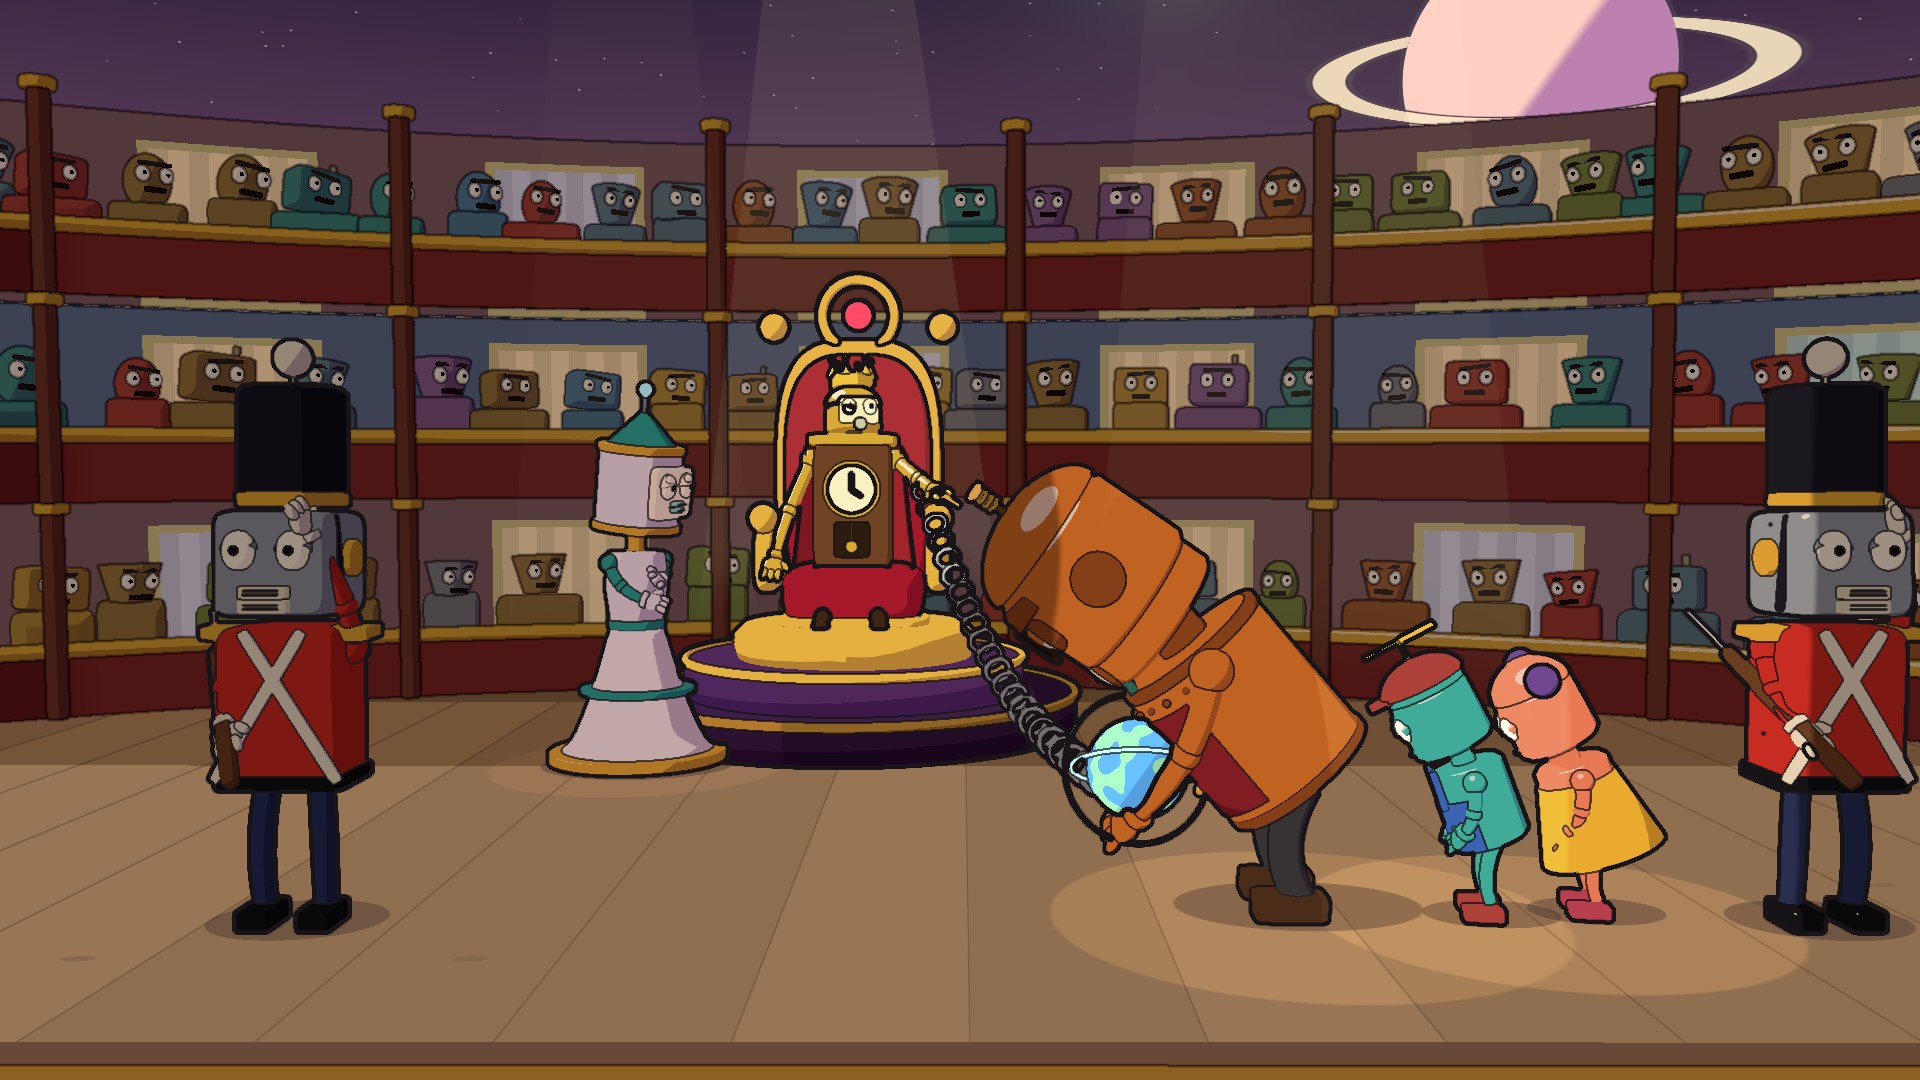
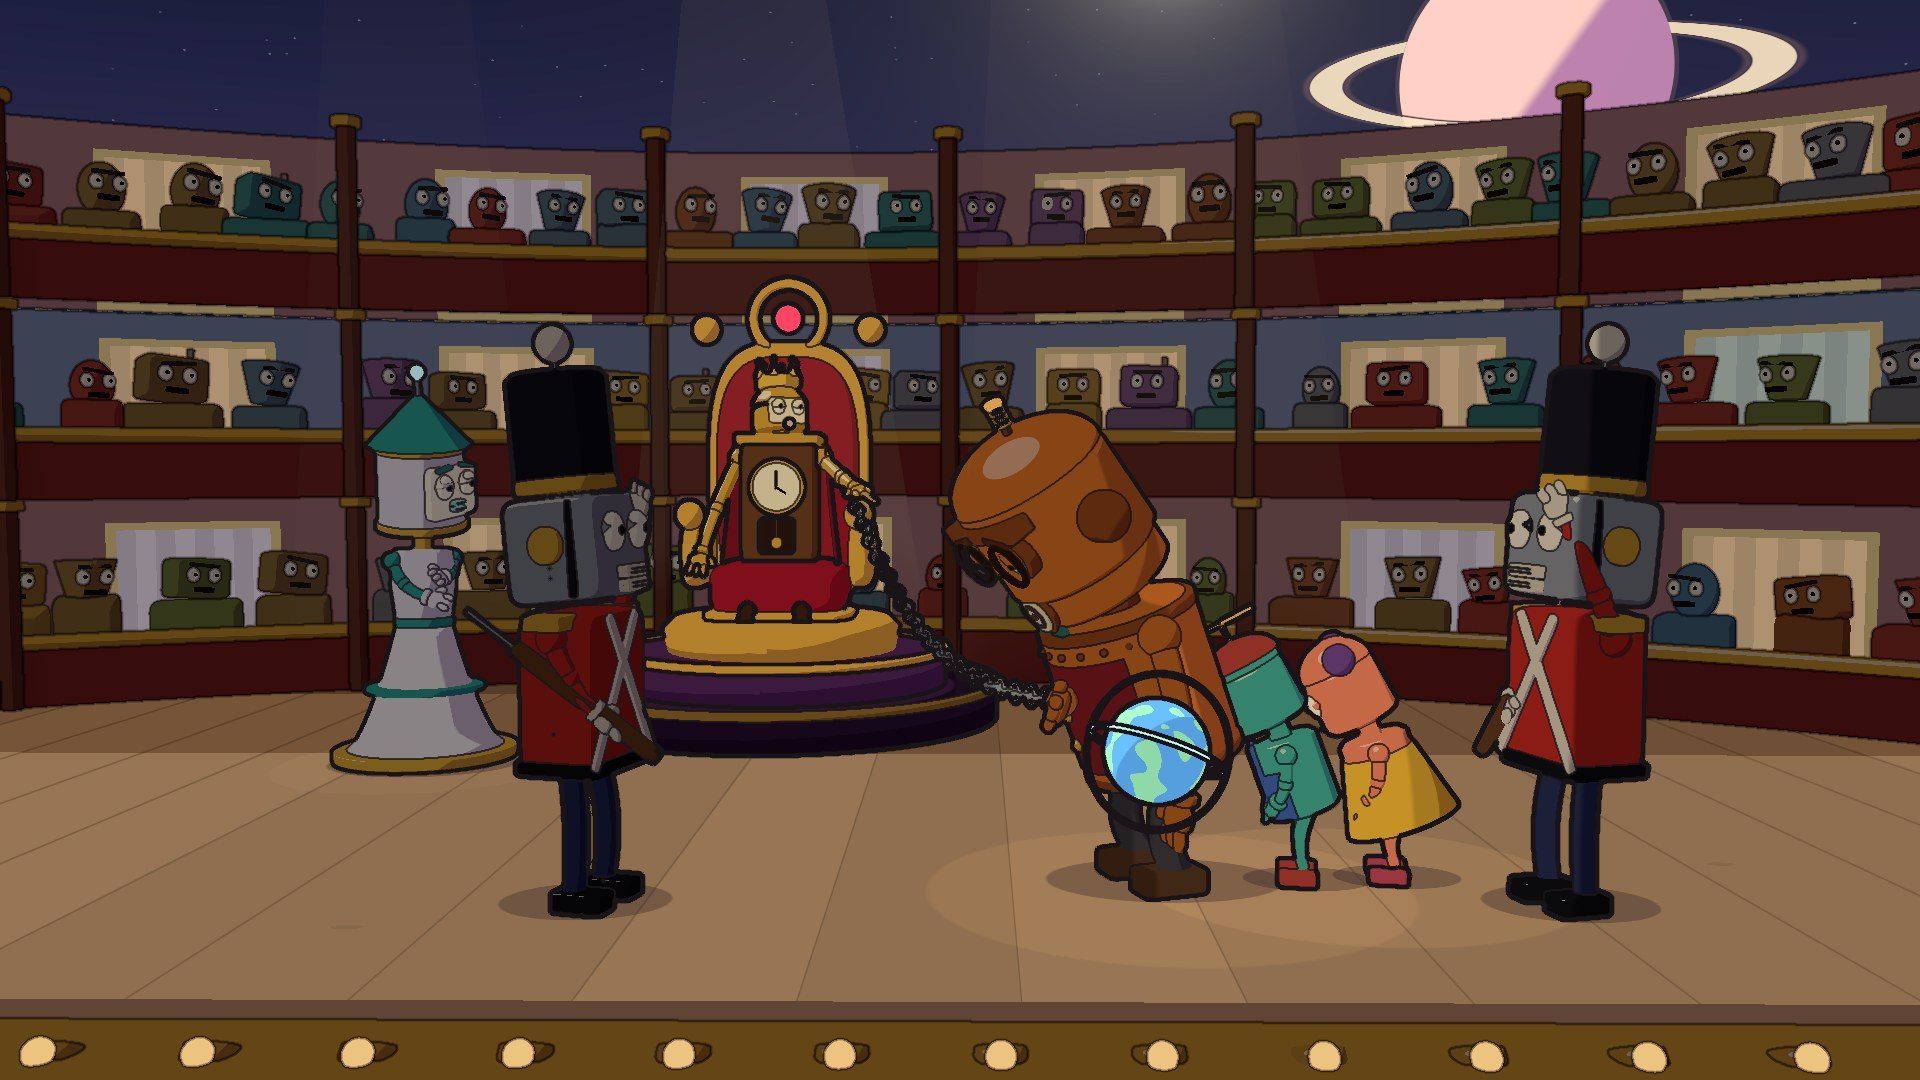
Chain clip round 2: wrist insert, real chain links, soldier stand-off, bow
- Wrist insert follows the real wrist; the chain yanks the left hand clear of
  the globe so the chain visibly ends at the cuff with his face in frame.
- Links turned so each plane contains the path and stretched into ovals
  (reads as a chain, not a coil) - clip-local until props.ts adopts it.
- Soldiers halt facing Barnaby in profile, step in and aim on "wars",
  waver on "But never", turn three-quarters to him and salute on "reign".
  Red floor wash removed; key light kept neutral (Aria stays white).
- Bow: waist bend with knee dip and hips back, a nod, chained hand across
  the chest, globe lowered to his side; motion and camera settle by 70.6 s
  and hold through the fade.
- Brows/lids: Barnaby wistful, startled, alarmed then resolved, humble;
  Aria worried; king smug, alarmed, content.

diff --git a/visuals/one-more-dawn/src/lib/clips/chain.ts b/visuals/one-more-dawn/src/lib/clips/chain.ts
@@ -144,8 +144,9 @@ const BL: VKey[] = [
   [T.hands + 0.6, [-0.19, 0.4, 0.58]],
   [60.95, [-0.36, 0.3, 0.66]], // show it to the children
   [T.chain - 0.02, [-0.36, 0.3, 0.66]],
-  [T.chain + 0.1, [-0.66, 0.55, 0.4], easeOut], // yanked by the chain
-  [T.chain + 0.55, [-0.32, 0.38, 0.58]],
+  [T.chain + 0.1, [-0.8, 0.74, 0.4], easeOut], // yanked out by the chain
+  [T.chain + 0.9, [-0.74, 0.68, 0.44]], // held taut, straining
+  [63.95, [-0.4, 0.42, 0.56]],
   [64.1, [-0.18, 0.42, 0.5]], // protective, at the chest
   [T.wars - 0.2, [-0.18, 0.42, 0.5]],
   [T.wars + 0.05, [-0.22, 0.26, 0.46]], // anticipation
@@ -166,14 +167,16 @@ const BR: VKey[] = [
   [END, [0.6, 0.0, 0.22]],
 ];
 // Globe position in Barnaby's torso space while it rests at his side.
-const GLOBE_SIDE: V3 = [0.64, 0.2, 0.28];
+const GLOBE_SIDE: V3 = [0.66, 0.3, 0.3];
+// Globe held to his chest in the right hand while the chain holds the left.
+const GLOBE_CHEST: V3 = [0.02, 0.6, 0.74];
 // Right hand differs while showing the globe and on the jolt.
 const BR_SHOW: VKey[] = [
   [60.5, [0.19, 0.4, 0.58]],
   [60.95, [0.04, 0.3, 0.7]],
   [T.chain - 0.02, [0.04, 0.3, 0.7]],
-  [T.chain + 0.1, [-0.16, 0.44, 0.6], easeOut],
-  [T.chain + 0.55, [0.06, 0.38, 0.6]],
+  [T.chain + 0.1, [0.0, 0.36, 0.66], easeOut],
+  [T.chain + 0.9, [0.04, 0.36, 0.64]],
   [64.1, [0.18, 0.42, 0.5]],
 ];
 
@@ -194,7 +197,7 @@ function barnaby(t: number, rig: Rig, out: Pose): void {
     [T.begged + 0.3, -0.3],
     [66.4, -0.05],
     [T.brk, -0.05],
-    [T.reign - 0.15, -1.5],
+    [T.reign - 0.15, -1.22], // three-quarter profile so the bow and face read
   ]);
   // Old-timer stoop, breathing.
   p.lean = 0.12 + Math.sin(t * 1.3) * 0.015;
@@ -224,8 +227,11 @@ function barnaby(t: number, rig: Rig, out: Pose): void {
   // The bow on "reign": a waist bend with a knee dip, a nod of the head,
   // settled by 70.6 s and held still through the fade.
   const bow = ekeys(t, [[T.reign - 0.05, 0], [T.reign + 0.6, 1.06, easeOut], [T.reign + 1.05, 1]]);
-  p.lean += bow * 0.36;
-  p.lift -= bow * 0.075;
+  p.lean += bow * 0.22;
+  p.lift -= bow * 0.1;
+  // Hips go back as the chest goes forward, so the bend reads at the waist.
+  p.x -= Math.sin(p.yaw) * bow * 0.08;
+  p.z -= Math.cos(p.yaw) * bow * 0.08;
   p.squash -= bow * 0.03;
   p.bendL = 0.5;
   const calm = ramp(t, T.reign + 0.6, T.reign + 1.1);
@@ -258,8 +264,8 @@ function barnaby(t: number, rig: Rig, out: Pose): void {
     [T.never + 0.35, 0.12],
     [T.brk + 0.4, 0.04],
     [T.reign + 0.05, 0.02],
-    [T.reign + 0.5, 0.42, easeOut], // the nod
-    [T.reign + 0.95, 0.32],
+    [T.reign + 0.5, 0.4, easeOut], // the nod
+    [T.reign + 0.95, 0.3],
   ]);
   p.headYaw = ekeys(t, [
     [START, 0],
@@ -409,9 +415,9 @@ function guard(t: number, rig: Rig, out: Pose, side: -1 | 1): void {
   p.lift -= ekeys(t, [[66.2, 0], [66.3, 1], [66.5, 0]]) * 0.04;
   // Facing: march in profile; square off at Barnaby in profile for the
   // stand-off; after "never" turn three-quarters toward him and stand down.
-  const face = -side * Math.PI / 2;
+  const face = -side * (Math.PI / 2 + 0.25 * ramp(t, 66.0, 66.6));
   const ease = ekeys(t, [[T.never + 0.15, 0], [T.brk + 0.1, 1]]);
-  p.yaw = lerp(face, -side * 1.0, ease);
+  p.yaw = lerp(face, -side * 1.3, ease);
   // Aim on "wars": a pull back, then a snap with overshoot; lowered on "never".
   const aim = ekeys(t, [[T.wars - 0.3, 0], [T.wars - 0.08, -0.12], [T.wars + 0.12, 1, backOut], [T.never - 0.05, 1], [T.never + 0.4, 0]]);
   const a = clamp01(aim);
@@ -478,8 +484,8 @@ function shotCamera(t: number, cam: PerspectiveCamera): void {
     // Close insert: the wrist, the end of the chain and his face together.
     // Holds through the snap, then eases out to a medium as he looks up.
     const out = ramp(t, 63.4, 64.42, smooth);
-    camLook.copy(wristW).lerp(faceW, 0.35 + out * 0.25);
-    camPos.copy(camLook).add(tmpC.set(lerp(0.15, 0.35, out), lerp(0.25, 0.2, out), lerp(1.55, 2.6, out)));
+    camLook.copy(wristW).lerp(faceW, 0.42 + out * 0.2);
+    camPos.copy(camLook).add(tmpC.set(lerp(-1.0, -0.2, out), lerp(0.95, 0.35, out), lerp(1.75, 2.8, out)));
   }
   // Gentle hand-held drift, as in the rest of the show.
   const drift = 1 - ramp(t, 70.2, 70.7);
@@ -507,6 +513,19 @@ const kingWorld = new Vector3(0, 0, -4.4);
 const light2 = new Color(1.0, 0.82, 0.6);
 const neutral = new Color();
 
+// The shared Chain faces each torus along the path, which reads as a coil.
+// Turn every link so its plane contains the path and stretch it into an
+// oval, so neighbours interlock like a real chain. (Requested upstream.)
+function linkUp(cast: Cast): void {
+  for (const link of cast.chain.group.children) {
+    if (!link.visible) {
+      continue;
+    }
+    link.rotateY(Math.PI / 2);
+    link.scale.x *= 1.55;
+  }
+}
+
 function put(rig: Rig, a: Pose, b: Pose, w: number): void {
   blendPose(outP, a, b, w);
   applyPose(rig, outP);
@@ -523,8 +542,8 @@ export const clip = {
     // Aria glides to the foot of the throne so the stand-off has room.
     ariaPose(t, cast.aria, base.aria);
     copyPose(base.aria, mine.aria);
-    const AX: Key[] = [[START, -5.2], [58.3, -5.2], [60.6, -1.5]];
-    const AZ: Key[] = [[START, -3.3], [58.3, -3.3], [60.6, -2.6]];
+    const AX: Key[] = [[START, -5.2], [58.3, -5.2], [60.6, -2.4]];
+    const AZ: Key[] = [[START, -3.3], [58.3, -3.3], [60.6, -2.2]];
     mine.aria.x = keys(t, AX, smooth);
     mine.aria.z = keys(t, AZ, smooth);
     const ariaMoving = clamp01(speedOf(t, AX, AZ) / 1.2);
@@ -605,6 +624,11 @@ export const clip = {
     handsMid.z += 0.06;
     tmpB.set(barnWorld.x + 0.1 + Math.sin(t * 2.1) * 0.18 * (1 - descend) * ramp(t, 57.7, 58.3), 7.5, barnWorld.z + 0.5);
     globe.group.position.copy(tmpB).lerp(handsMid, descend);
+    const hold = span(t, T.chain - 0.02, 64.0, 0.12, 0.45);
+    if (hold > 0) {
+      const chest = cast.barnaby.torso.localToWorld(tmpC.set(GLOBE_CHEST[0], GLOBE_CHEST[1], GLOBE_CHEST[2]));
+      globe.group.position.lerp(chest, hold);
+    }
     // During the bow the globe lowers to his side in the right hand.
     const lower = ramp(t, T.reign + 0.2, T.reign + 0.8, smooth);
     if (lower > 0) {
@@ -628,6 +652,7 @@ export const clip = {
     const reveal = ramp(t, T.us, T.chain, (u: number) => u * u);
     const sag = ekeys(t, [[START, 0.9], [T.us, 0.9], [T.chain - 0.05, 0.55], [T.chain + 0.1, 0.1, easeOut], [T.chain + 0.5, 0.22], [64.6, 0.5]]);
     cast.chain.update(tip, wrist, reveal, sag);
+    linkUp(cast);
     wristW.copy(wrist);
     cast.barnaby.head.localToWorld(faceW.set(0, 0.42, 0.3));
 
